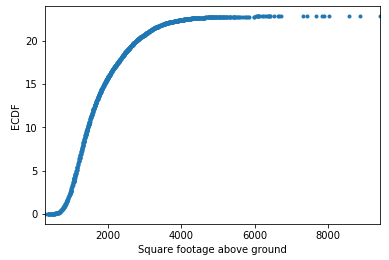
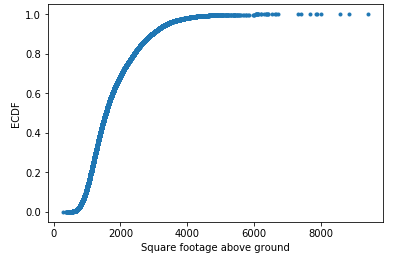
Fix ECDF plot

Changed region(s): [[0.0, 0.0, 0.9871, 0.9846]]

diff --git a/challenge-2/README.md b/challenge-2/README.md
@@ -255,18 +255,21 @@ You can calculate the ECDF using the function below:
 ```
 def ecdf(series):
     import numpy as np
-    
-    sq = series.value_counts()
-    return sq.sort_index().cumsum()*1./len(sq)
+    xs = np.sort(series)
+    ys = np.arange(1, len(xs)+1)/float(len(xs))
+    return xs, ys
 ```
 
 To use the function inside the notebook, use the following code:
 
 ```
-ecdf(df['sqft_above']).plot(marker='.', linestyle='none')
+ecdf_x, ecdf_y = ecdf(df['sqft_above'])
+
+plt.plot(ecdf_x, ecdf_y, marker='.', linestyle='none')
 
 plt.xlabel('Square footage above ground')
 plt.ylabel('ECDF')
+
 plt.show()
 ```
 
